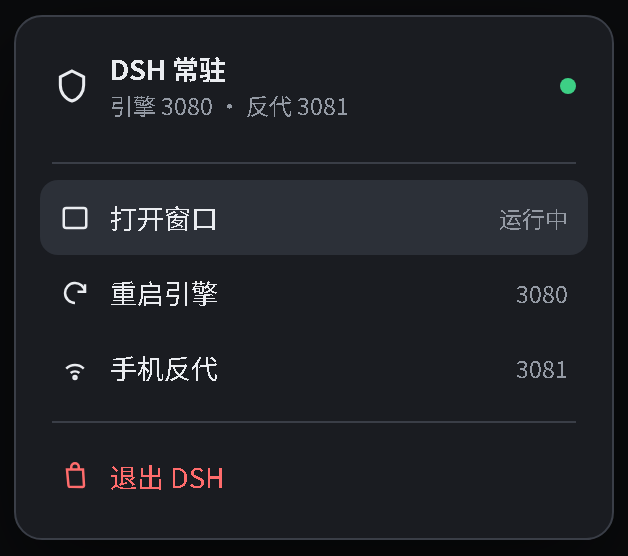
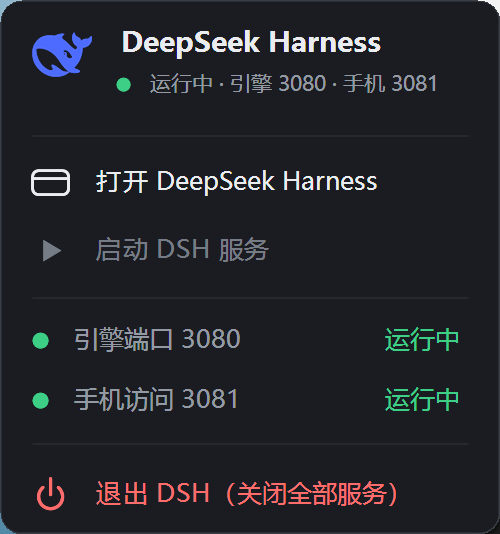
README 与界面图更新：窗口/托盘改用实拍

diff --git a/README.md b/README.md
@@ -2,10 +2,10 @@
 
 [English](README.en.md) · 中文
 
-![桌面套壳窗口界面示意](assets/dsh-desktop-window.png)
-![托盘菜单界面示意](assets/dsh-desktop-tray.png)
+![桌面套壳窗口界面实拍](assets/dsh-desktop-window.png)
+![托盘菜单界面实拍](assets/dsh-desktop-tray.png)
 
-*界面示意：按官方主题变量渲染的版式，非实机截图。*
+*界面实拍：截自本机运行中的 DSH 实例。*
 
 DeepSeek Harness 的 Windows 桌面套壳和系统托盘守护，两个 C# 单文件程序，源码级开源。
 

diff --git a/README.en.md b/README.en.md
@@ -2,10 +2,10 @@
 
 [中文](README.md) · English
 
-![Desktop shell window](assets/dsh-desktop-window-en.png)
-![Tray menu](assets/dsh-desktop-tray-en.png)
+![Desktop shell window](assets/dsh-desktop-window.png)
+![Tray menu](assets/dsh-desktop-tray.png)
 
-*Mockups: layout rendered from the official theme tokens, not screenshots of a running instance.*
+*Screenshots of the running DSH desktop shell and its tray menu.*
 
 A Windows desktop shell and system-tray guard for DSH: two single-file C# programs, open-sourced at source level.
 
